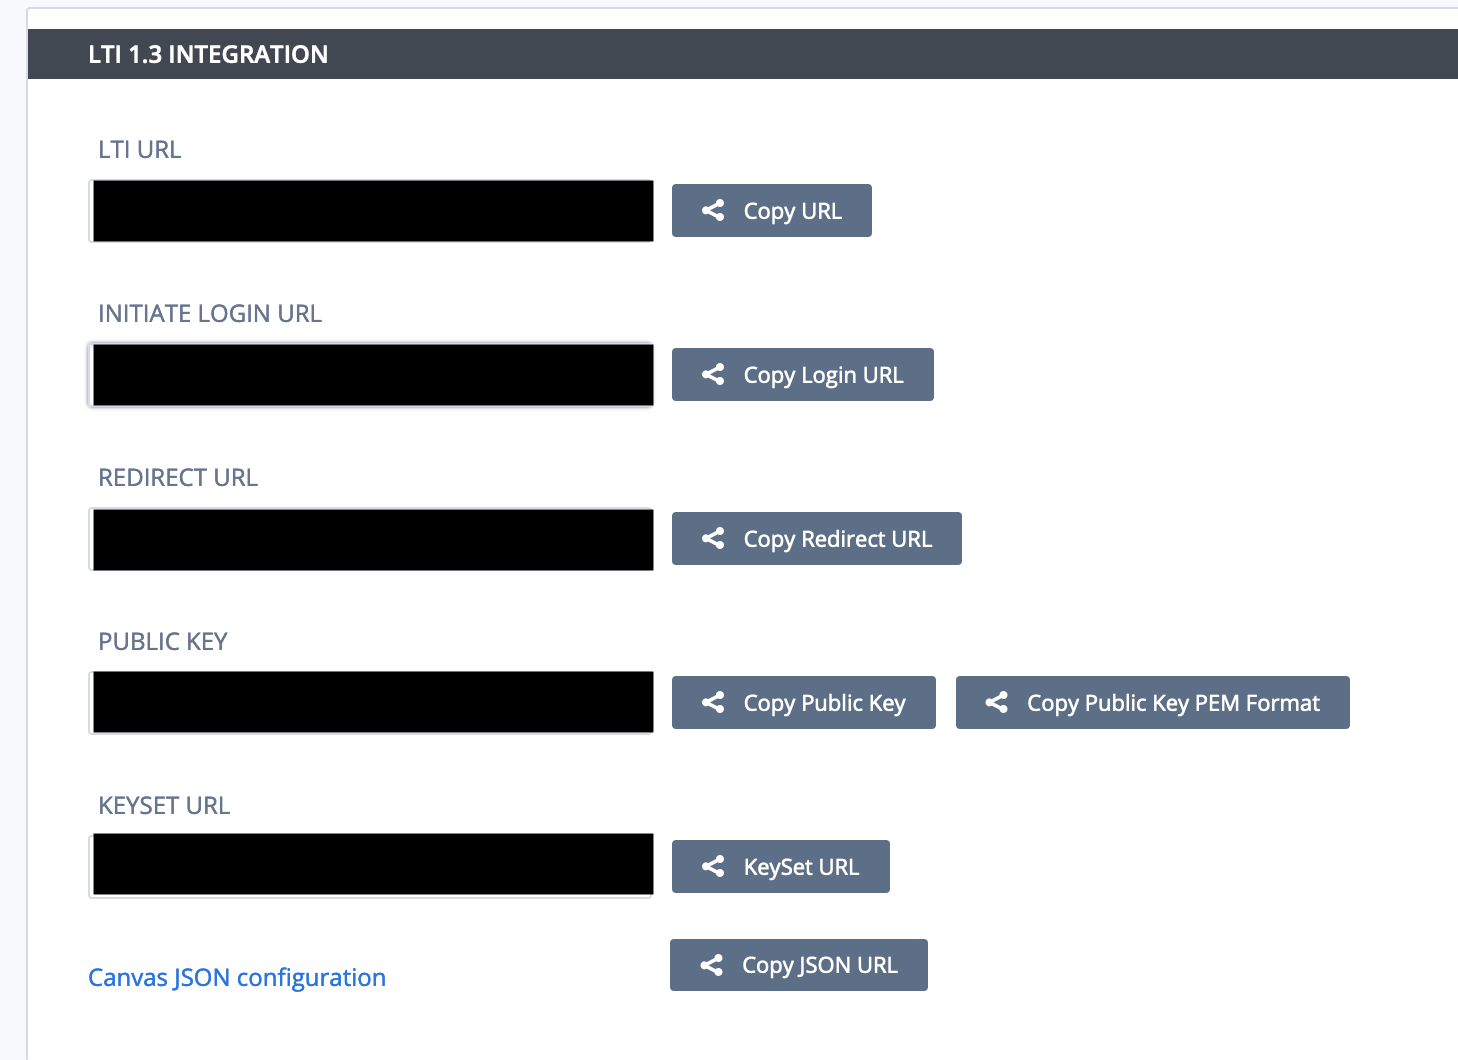
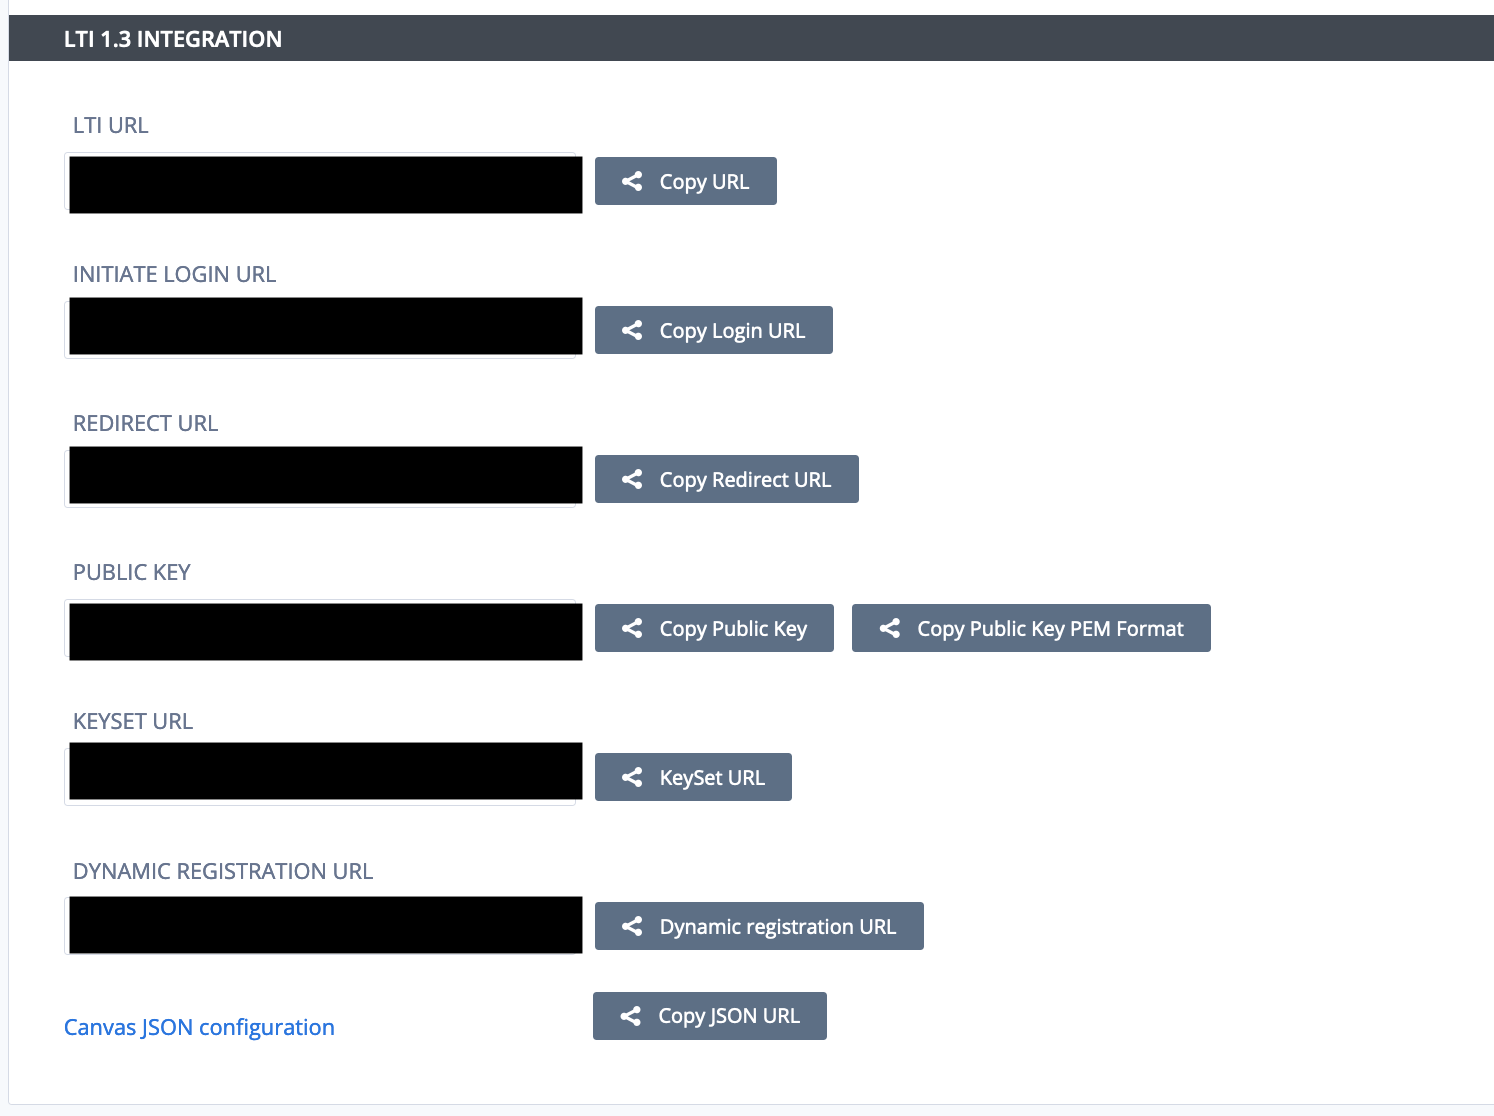
docs for LTI1.3 Dynamic Registration and one updated image (#269)

diff --git a/source/instructors/admin/integration/lti1-3DynReg.rst b/source/instructors/admin/integration/lti1-3DynReg.rst
@@ -1,0 +1,56 @@
+.. meta::
+   :description: LTI 1.3 Dynamic Registration
+
+.. _lti1-3DynReg:
+
+LTI 1.3 Dynamic Registration
+============================
+
+The Dynamic Registration specification automates the exchange of configuration information between Tools and LMS systems. This standard has not been implemented for all LMS systems but for those that support it you can set it up as follows.
+The instructions below are for the Moodle LMS system but should be similar in other systems that have implemented this feature.
+
+Access LTI Integration settings in Codio
+~~~~~~~~~~~~~~~~~~~~~~~~~~~~~~~~~~~~~~~~
+1. Go to your organization account settings by clicking on your user name in the bottom left of your dashboard and then selecting your organization within **Organizations**.
+2. Select the **LTI Integrations** tab.
+3. Scroll down to the **LTI Integration 1.3** section. 
+4. The **Dynamic Registration URL** is at the bottom of the list, you can copy it by clicking on the **Dynamic Registration URL** button.
+
+The LTI 1.3 area of your LTI Integrations settings for your organization.
+  .. image:: /img/lti/codiolti13settings.png
+     :alt: LTI 1.3 settings in Codio
+
+Adding the tool in Moodle
+~~~~~~~~~~~~~~~~~~~~~~~~~
+1. Navigate to the **Manage Tools** section of your Site Administration and select the Plugins tab.
+
+The location where you paste the Dynamic Registration URL
+  .. image:: /img/lti/moodlepastedynreg.png
+     :alt: Where you paste your Dynamic Registration URL in Moodle
+    
+2. Paste the value you copied in the Tool URL field and click **Add LTI Advantage**.
+3. It will present you with the Codio Organizations you are associated with, likely just one choice, but if there is more than one, select the organization you want to associate this tool with and click continue. It should be the organization that contains the courses you want to connect to the LMS system.
+4. It will ask you to confirm that you want to register Codio as an external tool in the organization you selected. Click **Yes**. You will receive a confirmation from Codio that the action was completed.
+5. The tool will appear at the bottom of the screen, click the Activate button.
+
+
+Activating the tool you are creating
+  .. image:: /img/lti/LTI13dynregactivate.png
+     :alt: Where you activate the tool
+
+Return to Codio and refresh the **Integrations** page, you will see the integration you created in the bottom section if everything has been set up properly.
+
+Using the tool in Moodle
+~~~~~~~~~~~~~~~~~~~~~~~~
+1. Navigate to your **My Courses** page and select the course you want to use.
+2. Turn on **Edit Mode**.
+3. From the **More** dropdown select **LTI External Tools**.
+4. You will see the Codio tool, toggle **Show in activity chooser** on.
+
+Toggling on show in activity chooser for the Codio tool.
+  .. image:: /img/lti/LTI13dynregshow.png
+     :alt: Toggling on show in activity chooser for the Codio tool.
+     
+5. Go to your course and click on **Add an activity or resource**.
+6. Click on the **All** tab to show all the tools and select Codio.
+7. Click **Select Content** and that will bring up your list of Codio courses, select the course and assignment you want to connect.

diff --git a/source/instructors/getstarted/support/changelog.rst b/source/instructors/getstarted/support/changelog.rst
@@ -13,6 +13,10 @@ We do not report small bug fixes or issues that affect individual users, who we 
 `[I]` = Update or improvement
 `[F]` = New feature
 
+**December 2023**
+
+- `[F] [15th]`: Added :ref:`LTI 1.3 Dynamic Registration <lti1-3DynReg>` feature for LMS systems that support it.
+
 **October 2023**
 
 - `[I] [10th]`: Added an ability to configure the individual :ref:`Behavior Insights <behavior-insights>` options

diff --git a/source/instructors/admin/integration/intro.rst b/source/instructors/admin/integration/intro.rst
@@ -21,6 +21,7 @@ Integrating with your LMS system (Canvas etc.)
    lti1-3
    lti1-3BS-D2L
    lti1-3Canvas
+   lti1-3DynReg
 
 Learning Tools Interoperability (LTI) is a standard for passing user, organization, and course information between learning management systems (tool consumers) and learning tools and tool providers, such as Codio.
 
